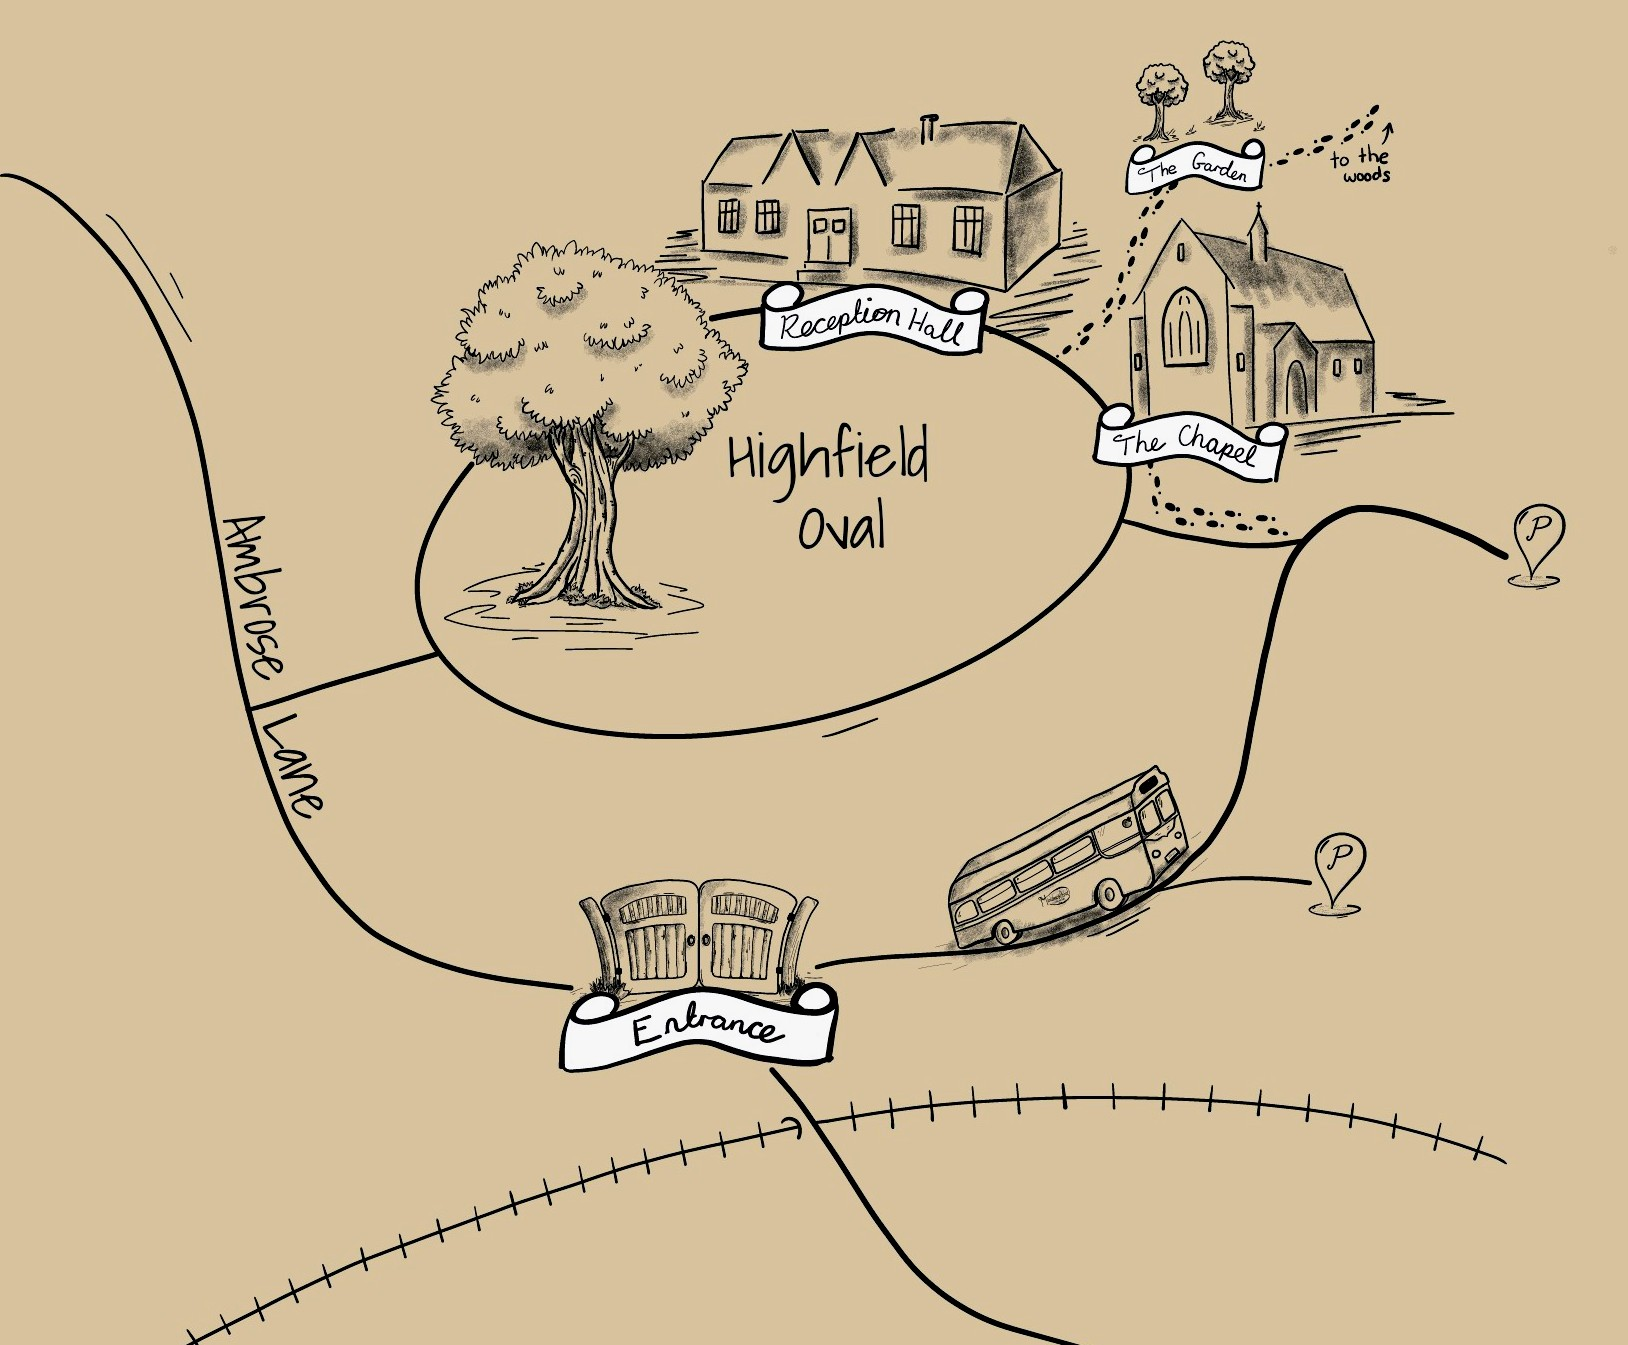
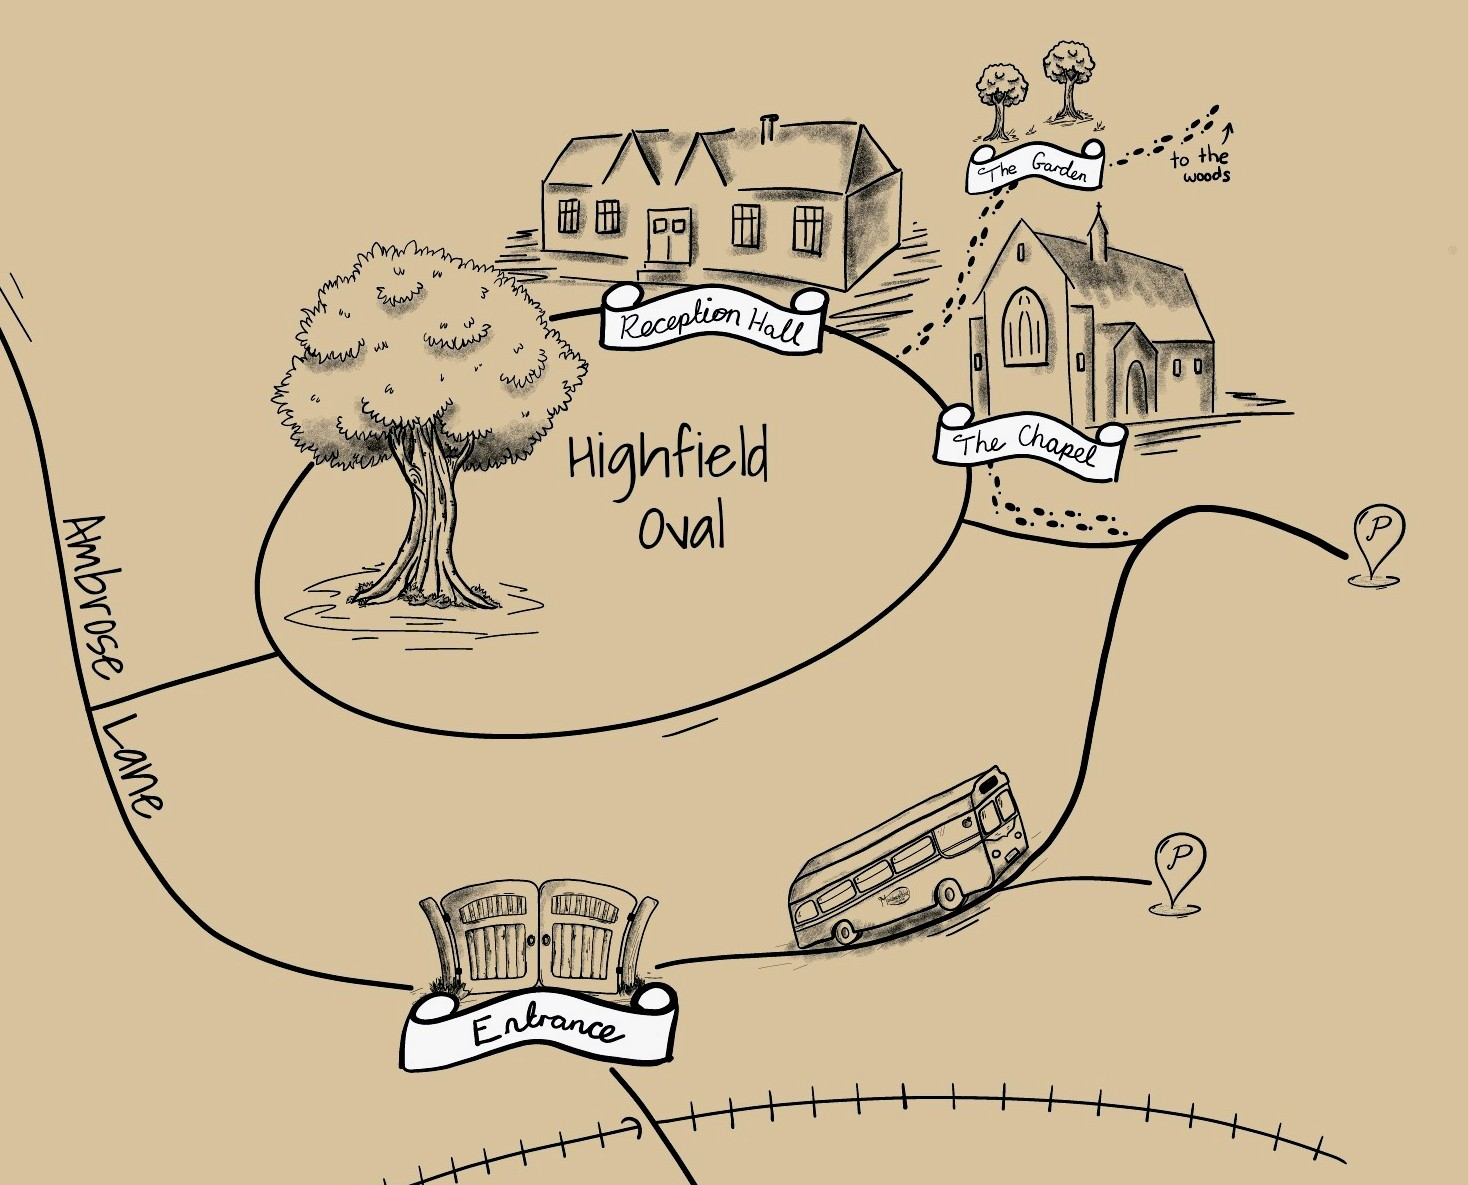
changed stuff

diff --git a/WeddingWebsite/Components/Pages/Home.razor.css b/WeddingWebsite/Components/Pages/Home.razor.css
@@ -9,8 +9,8 @@
     margin-top: 32vh;
     width: 100%;
     text-align: center;
-    font-family: Amsterdam, cursive;
-    font-size: clamp(48px, 8vw, 64px);
+    font-family: "Segoe Script", cursive; 
+    font-size: clamp(96px, 8vw, 64px);
     line-height: 1.5;
     text-shadow: 2px 2px 4px #000000;
 }

diff --git a/WeddingWebsite/Components/Sections/SectionHeading.razor.css b/WeddingWebsite/Components/Sections/SectionHeading.razor.css
@@ -1,8 +1,8 @@
 h2 {
-    font-size: 32px;
-    margin-top: 50px;
+    font-size: 60px;
+    margin-top: 10px;
     margin-bottom: 40px;
-    font-family: Amsterdam, cursive;
+    font-family: "Segoe Script", cursive;
     text-align: center;
     line-height: 2;
 }

diff --git a/WeddingWebsite/Config/ThemeAndLayout/Config.cs b/WeddingWebsite/Config/ThemeAndLayout/Config.cs
@@ -10,10 +10,10 @@ namespace WeddingWebsite.Config.ThemeAndLayout;
 public class Config : DefaultConfig, IWebsiteConfig
 {
     public new WeddingColours Colours { get; } = new (
-        new Colour("#8d5519"),  //#41a4bb
+        new Colour("#8c3f13"),  //#41a4bb "#61341a"
         new Colour("#3399FF"),  //#3399FF
-        new Colour("#B6D7A8"),  //#B6D7A8
-        new Colour("#F2F1ED")
+        new Colour("#fcff62"),  //#B6D7A8  Link Buttons
+        new Colour("#e2b1f2")   //background colour
     );
     public new IReadOnlyList<Section> Sections { get; protected set; }
     public new TopButtonsConfig TopButtons { get; }
@@ -42,21 +42,23 @@ public class Config : DefaultConfig, IWebsiteConfig
         var darkGreen = new Colour(50, 150, 50);
         var yellow = new Colour("#e45d5a");
         var darkPurple = new Colour(137, 108, 166);
-        var brown = new Colour("#8d5519");
+        var brown = new Colour("#61341a");
+        var white = new Colour("#ffffff");
 
         var filledBox = new BoxStyle(BoxType.FilledRounded, new SectionTheme(Colours.PrimaryBackground, darkPurple, null));
         var whiteFilledBox = new BoxStyle(BoxType.FilledRounded, new SectionTheme(Colour.White, Colours.Primary, null));
         var outlinedBox = new BoxStyle(BoxType.OutlinedSquare, new SectionTheme(Colour.White, Colours.Primary, null));
         
-        var bricks = new BackgroundImage("/img/15.jpeg", false, "1000px", null, 0.3, CustomTextColour: brown);
+        var bricks = new BackgroundImage("/img/19.jpg", false, "1000px", null, 0.3, CustomTextColour: brown);
+        var planks = new BackgroundImage("/img/18.jpg", false, "1600px", null, 0, CustomTextColour: white);
         var flowers = new BackgroundImage("/bg/blue-flowers.png", false, "500px", new Colour(255, 255, 255, 150), 0.3, true);
     
         Sections = [
             new Section.TodoListSummary(new SectionTheme(salmon, Colour.White, new BoxStyle(BoxType.FilledRounded, new SectionTheme(Colours.PrimaryBackground, Colour.White, null)))),
             //new Section.HowWeMet(new SectionTheme(purple, Colours.Primary, filledBox)),
-            new Section.DressCode(new SectionTheme(brown, Colours.Primary, whiteFilledBox), true, false),
-            new Section.Timeline(new SectionTheme(bricks, Colours.Primary, outlinedBox), true),
-            new Section.TravelDirections(new SectionTheme(brown, Colours.Primary, whiteFilledBox)),
+            new Section.DressCode(new SectionTheme(planks, Colours.Primary, whiteFilledBox), true, false),
+            new Section.Timeline(new SectionTheme(bricks, Colours.Primary, outlinedBox), true, false),
+            new Section.TravelDirections(new SectionTheme(planks, Colours.Primary, whiteFilledBox)),
             //new Section.VenueShowcase(new SectionTheme(purple, Colours.Primary, filledBox)),
             //new Section.MeetWeddingParty(new SectionTheme(flowers, Colours.Primary, outlinedBox)),
             //new Section.Accommodation(new SectionTheme(purple, Colours.Primary, filledBox)),
@@ -68,8 +70,7 @@ public class Config : DefaultConfig, IWebsiteConfig
             [
                 new LinkButton("RSVP", "/rsvp"),
                 new LinkButton("Directions", "/#directions"),
-            ],
-            yellow
+            ]
         );
 
         Navbar = new NavbarConfig(
@@ -80,6 +81,7 @@ public class Config : DefaultConfig, IWebsiteConfig
                 new LinkButton("Registry", "/registry"),
                 //new LinkButton("Gallery", "/gallery"),
                 //new LinkButton("Contact", "/#contact")
+                new LinkButton("RSVP", "/rsvp"),
             ]
         );
 

diff --git a/WeddingWebsite/Config/WeddingDetails/WeddingDetails.cs b/WeddingWebsite/Config/WeddingDetails/WeddingDetails.cs
@@ -161,12 +161,12 @@ public sealed class WeddingDetails : IWeddingDetails
     
     public Venue CeremonyVenue { get; } = new(
         "Highfield Oval", 
-        new Location(51.82660574703517, -0.3598443120147474),
+        new Location(51.826616576630016, -0.35850816485589265), 
         "The Chapel, Highfield Oval, Harpenden AL5 4BX",
         new TravelDirections(
             [
-                new WebsiteSection(null, "The venue is a 10 minute drive from the M1 (J10), or it is a 20 minute walk from Harpenden train station. When arriving, use the code 2810 to open the gate. The site is closed to the public on Sunday afternoons, but please be aware of the residents who live there."),
-                new WebsiteSection("Parking", "Please use the map to see where you can park. Please do not drive on the Oval itself."),
+                new WebsiteSection(null, "The venue is a 10 minute drive from the M1 (J10), or a 20 minute walk from Harpenden train station. When arriving, use the code 2810 to open the gate. The site is closed to the public on Sunday afternoons, but please be aware of the residents who live there."),
+                new WebsiteSection("Parking", "There is plenty of parking as shown on the map, but please do not drive onto the Oval itself."),
                 new WebsiteSection("Want to know more about the chapel?", "https://www.harpenden-history.org.uk/harpenden-history/buildings/other-harpenden-buildings/the_oval_harpenden"),
             ],
             null,

diff --git a/WeddingWebsite/Config/Strings/CustomStrings.cs b/WeddingWebsite/Config/Strings/CustomStrings.cs
@@ -5,9 +5,9 @@ namespace WeddingWebsite.Config.Strings;
 public class CustomStrings : FriendlyBritishEnglish, IStringProvider
 {
     // TODO: Change strings
-    public new string RegistryDescription1 => "Please do not feel under any pressure to give a gift - there is no obligation at all to do so! However, if you would like to give a gift, this page contains some suggestions of things we'd like. If you'd prefer to give something else, that's fine too!";
-    public new string RegistryDescription2 => "You can click on an item to view more information about it. Once you've decided to purchase it, please claim it so that we don't get multiple people buying the same thing!";
-    public new string DoNotPurchaseBeforeClaiming => "Please do not make a purchase before claiming the item first - this will reserve it so we don't get two people buying the same thing!";
+    public new string RegistryDescription1 => "If you'd like to give us a gift, please see our preferences below.";
+    public new string RegistryDescription2 => "Click on an item for more information. And please claim an item once you've decided to purchase it, to avoid multiple people buying the same thing!";
+    public new string DoNotPurchaseBeforeClaiming => "Please claim an item before purchasing!";
     
     public new string? RsvpYesDescription => null;
     public new string? RsvpNoDescription => null;

diff --git a/WeddingWebsite/Config/Strings/FriendlyBritishEnglish.cs b/WeddingWebsite/Config/Strings/FriendlyBritishEnglish.cs
@@ -18,7 +18,7 @@ public class FriendlyBritishEnglish : StandardBritishEnglish, IStringProvider
     public new string SelectPurchaseMethodDescription => "Thank you so much for offering to purchase this item! The next step is to choose how you would like to purchase it.";
     public new string SelectDeliveryAddressDescription => "You can either get it delivered to your own address and bring it on the day, or get it delivered to us beforehand - it's up to you what's easiest!";
     public new string ItemReadyToPurchaseDescription => "Thank you for filling in those details! You're now free to complete the purchase when you're ready. Once done, please mark it as completed.";
-    public new string ClaimThisItemDescription => "If you'd like to kindly buy this item for us, the first step is to claim it so that nobody else can buy this item. Once it's claimed, you'll be asked how you want to purchase it. Don't worry, this can be undone if you change your mind.";
+    public new string ClaimThisItemDescription => "Claim item for more purchase information. You can unclaim it if you change your mind.";
     
     public new string RsvpYesDescription => "We're very pleased that you are able to come! Please answer a few questions to help us accommodate your preferences and requirements on the day.";
     public new string RsvpNoDescription => "That's a shame, we'll miss you!";

diff --git a/WeddingWebsite/Config/Strings/StandardBritishEnglish.cs b/WeddingWebsite/Config/Strings/StandardBritishEnglish.cs
@@ -98,7 +98,7 @@ public class StandardBritishEnglish : IStringProvider
     public string RsvpAlreadySubmitted(string? contactMethod) => $"As your RSVP has been submitted, it is read-only. If you need to make any changes, please contact {contactMethod ?? "us"} and we'll try our best to accommodate them.";
     public string RsvpFormDescription => "Please complete this form once per guest. Your answers will not be saved until you submit, after which you will be unable to make any changes.";
     public string RsvpFormDescriptionContact(string? contactMethod) => $"If you have any questions, please contact {contactMethod ?? "us"}.";
-    public string RsvpAttendanceQuestion => "Will you be able to join us at our wedding?";
+    public string RsvpAttendanceQuestion => "We invite you to celebrate our wedding with us";
     public string RsvpLongYes => "Joyfully accept";
     public string RsvpLongNo => "Regretfully decline";
     public string? RsvpYesDescription => null;
